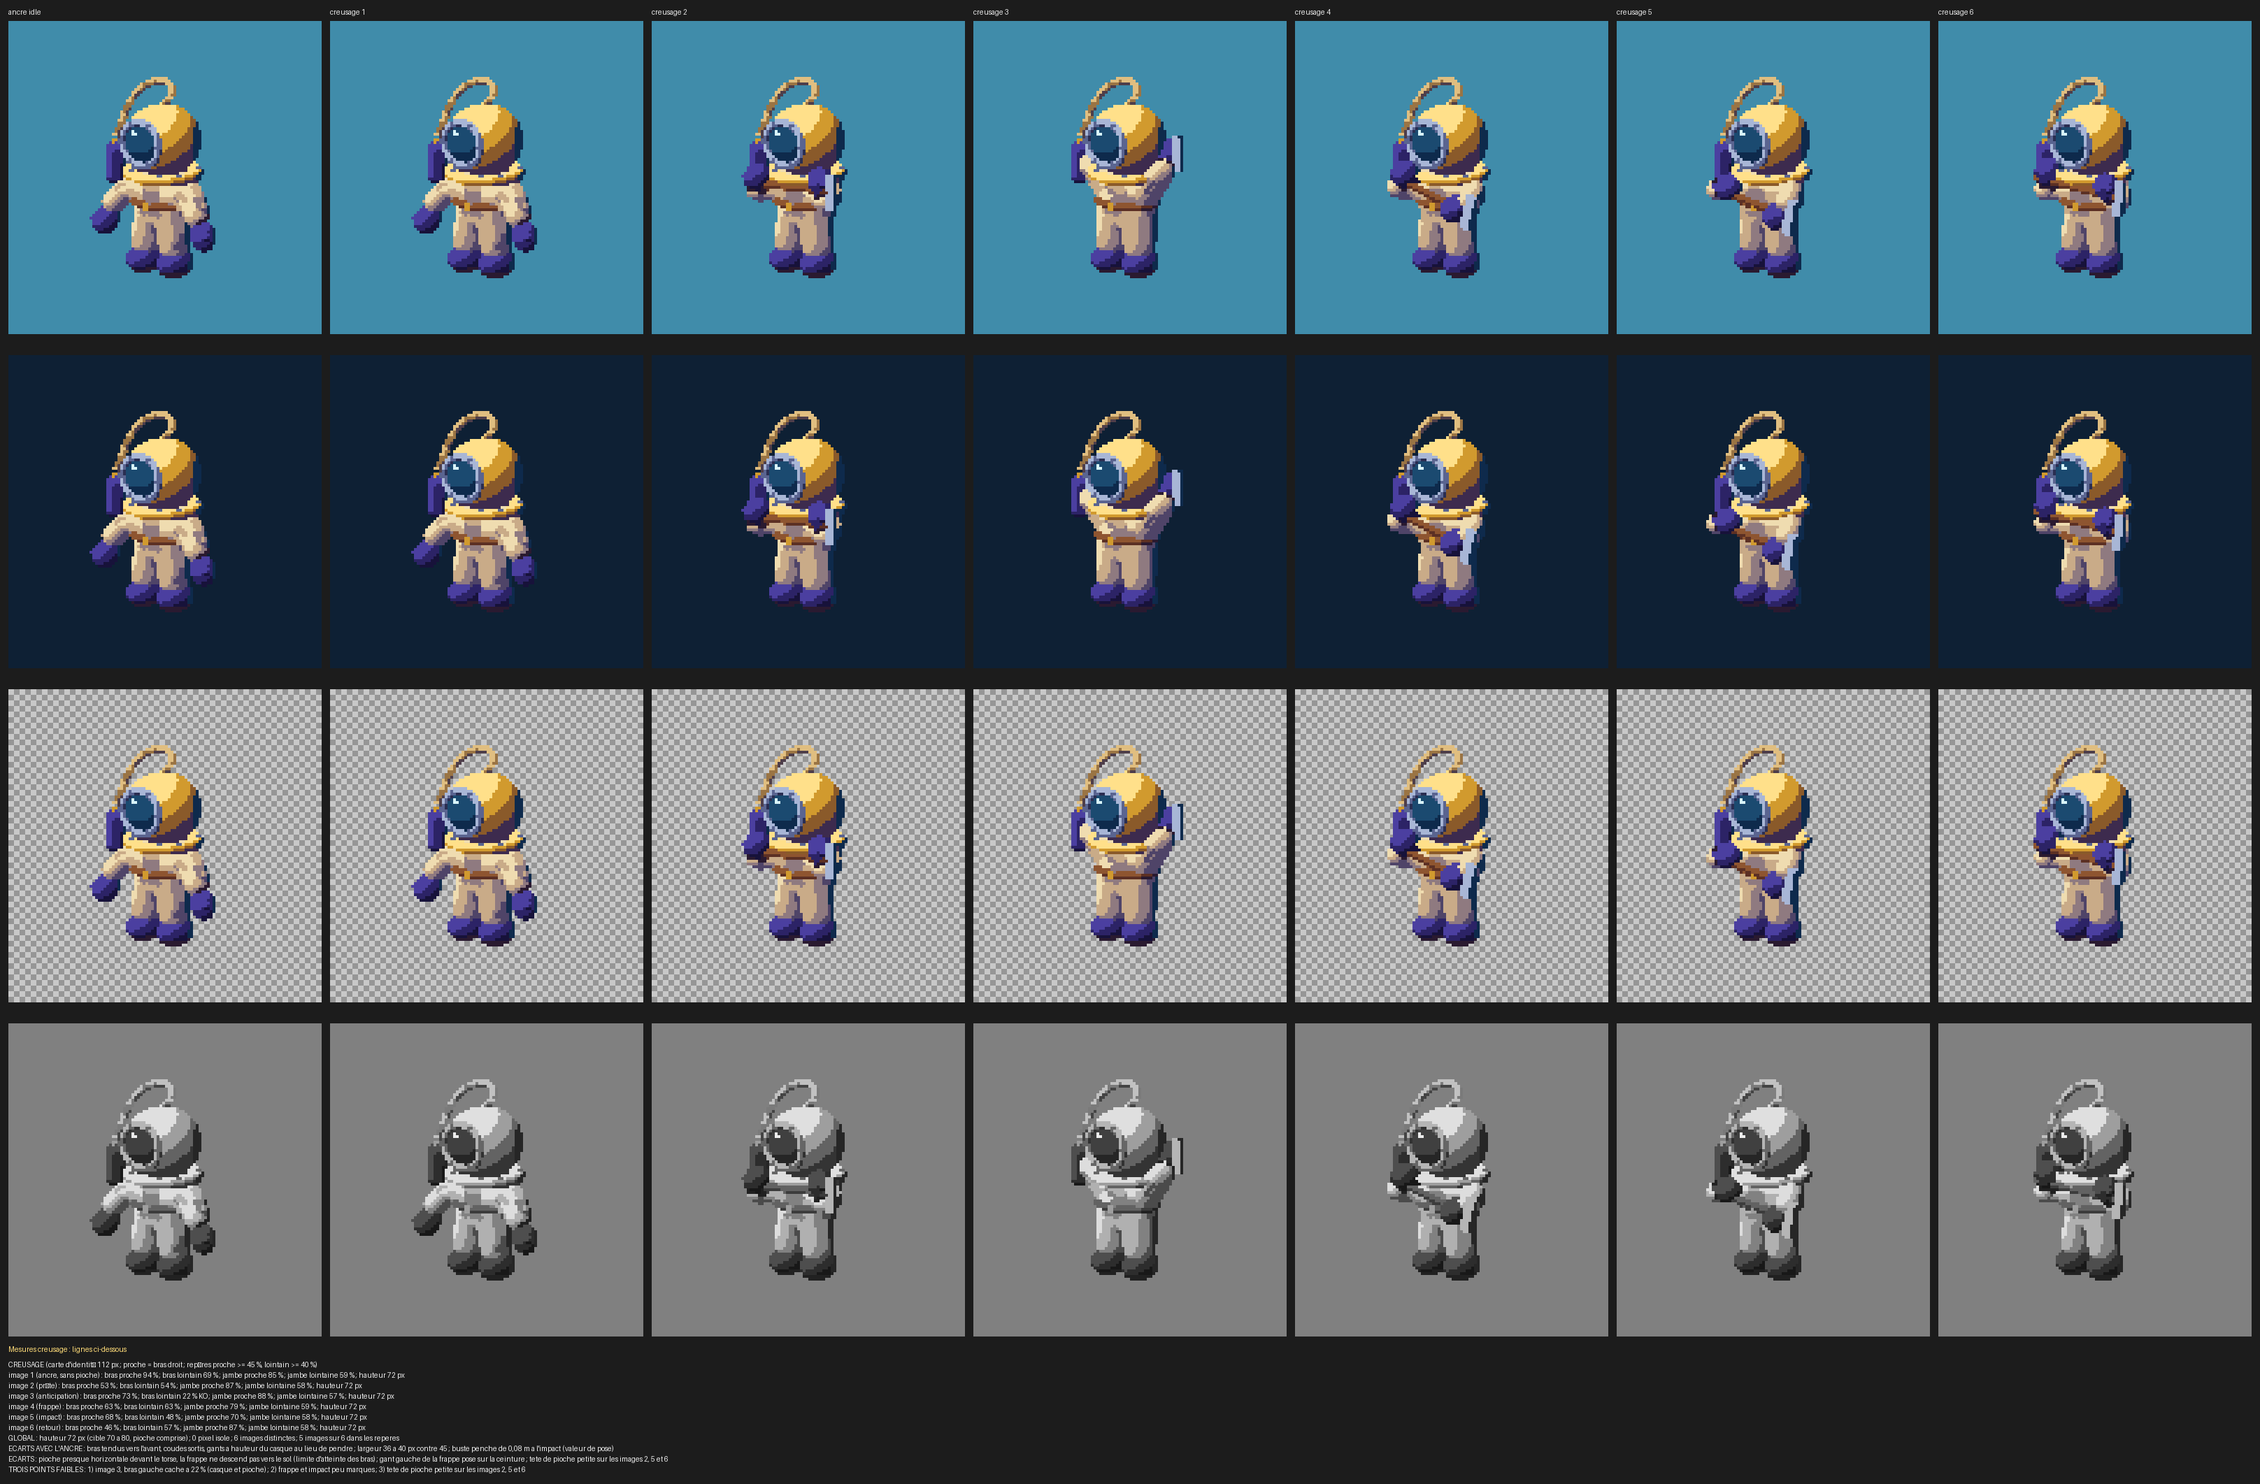
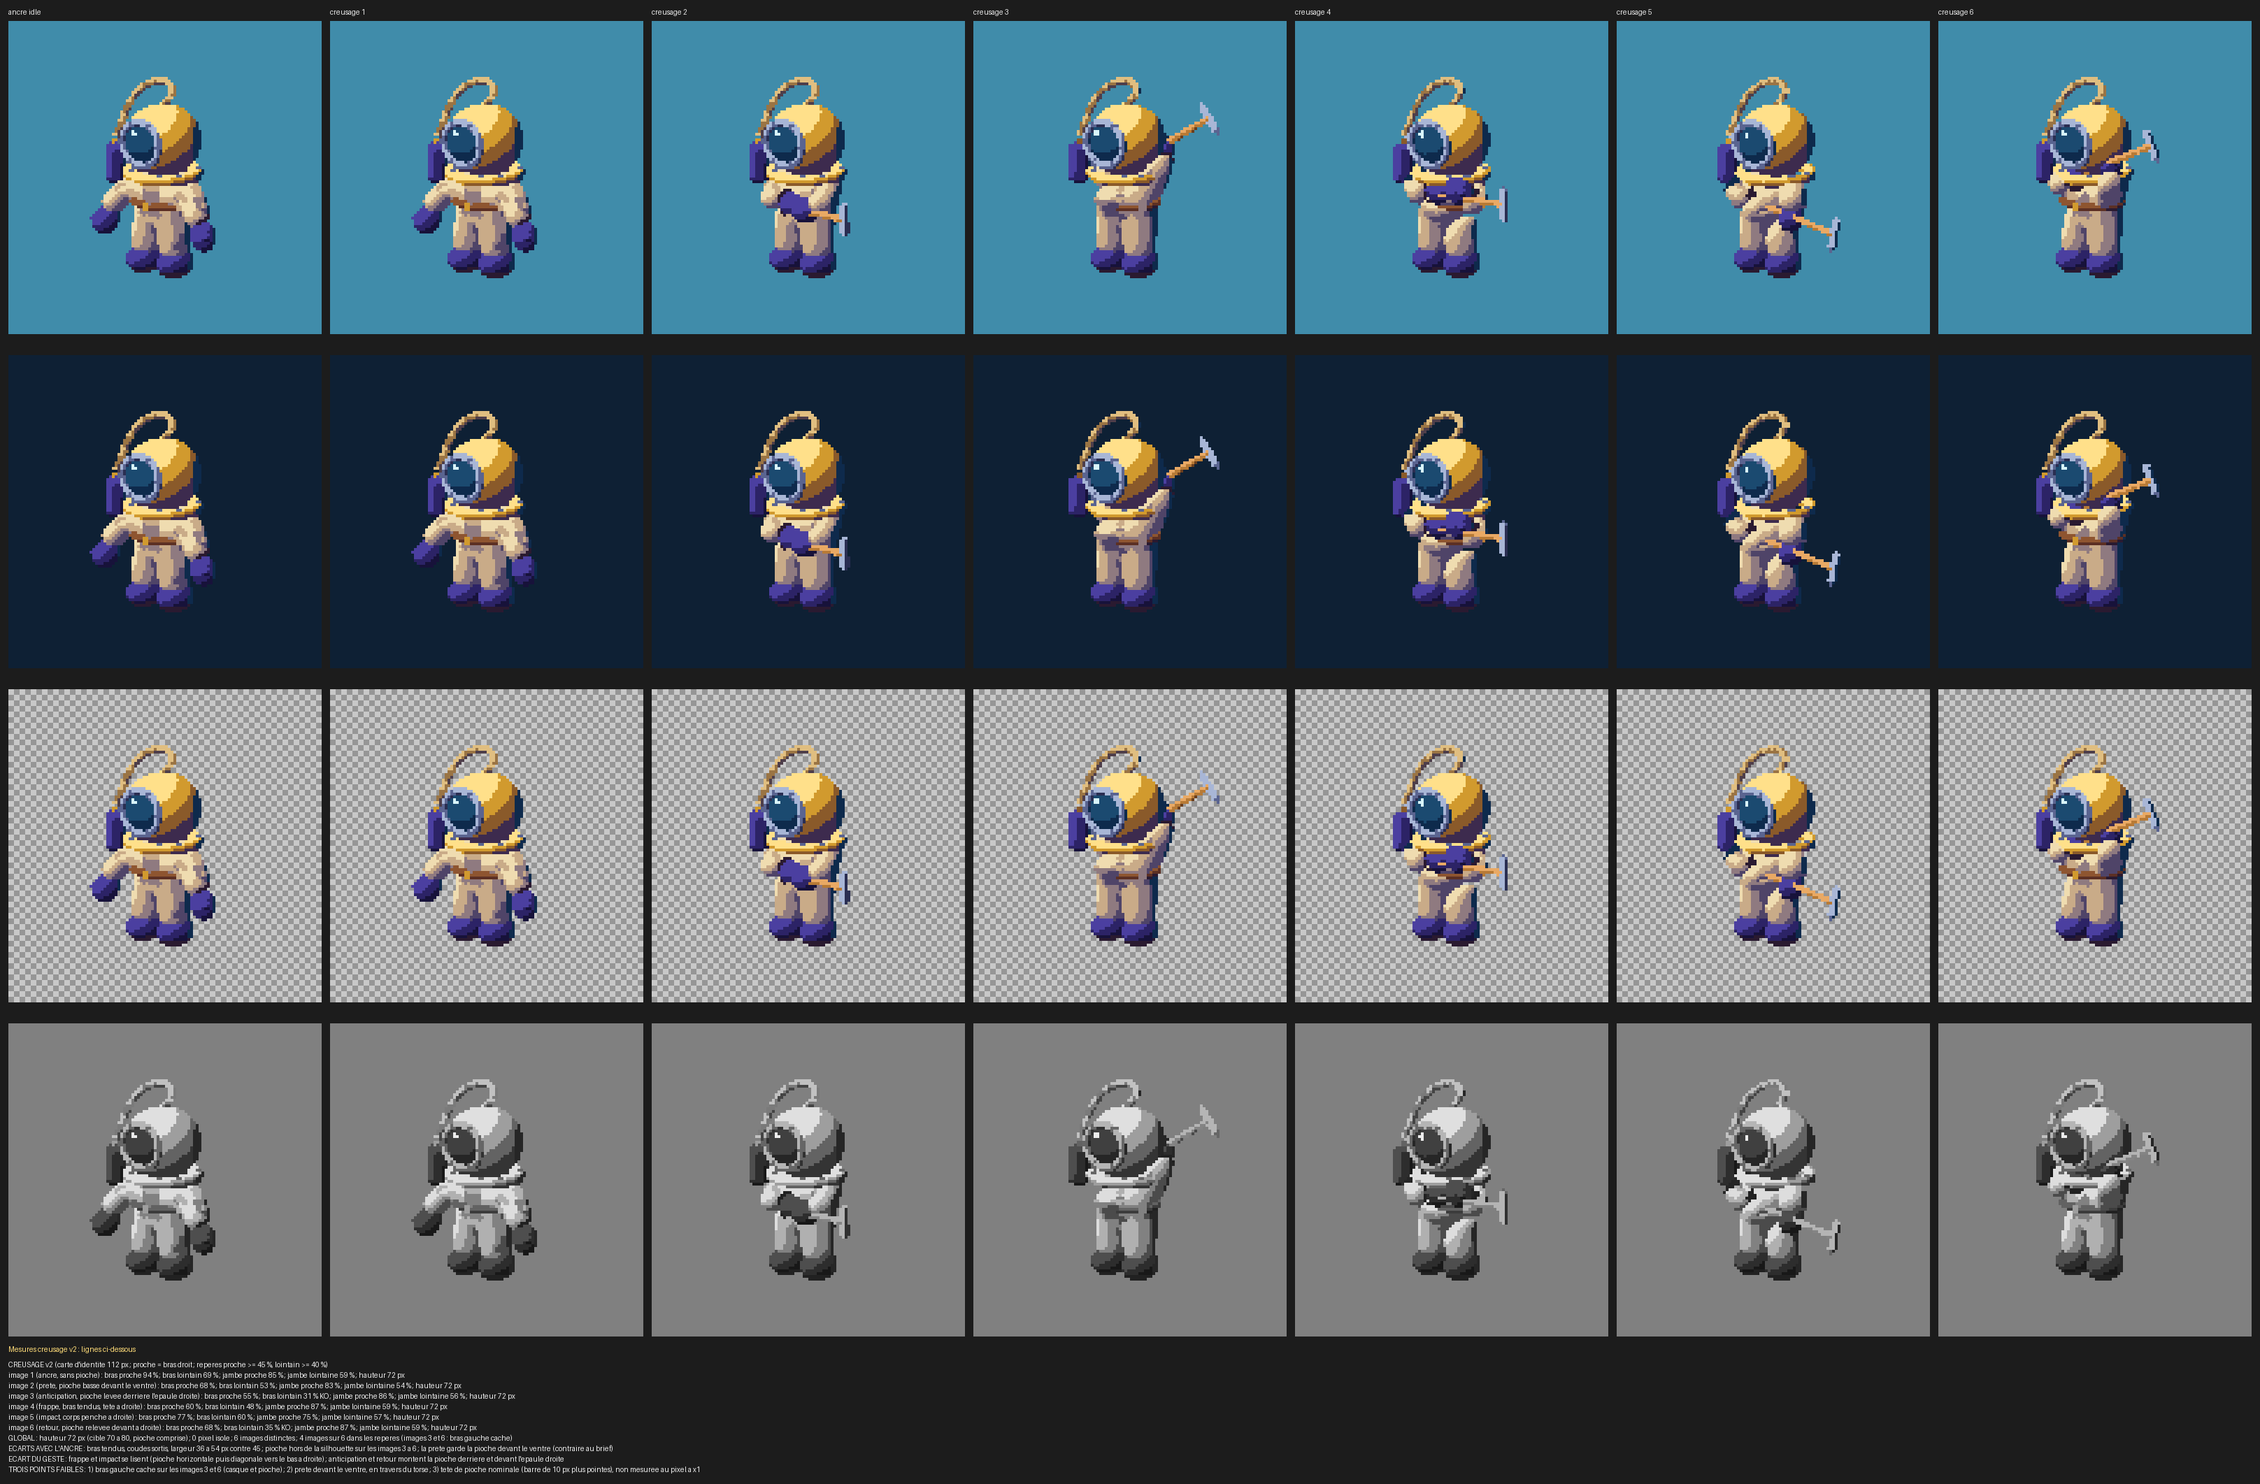
Creusage v2 : geste vers la droite, pioche sortie de la silhouette (arrêt pour validation)
Julien a rejeté le creusage v1 (pioche presque invisible, plongeur debout, gestes quasi identiques). Refait : même caméra, même style, idle et nage inchangés. Image 1 = ancre idle (rendu brut identique à la version validée après ajout de la famille bois). Anticipation : pioche levée derrière l'épaule droite ; frappe : bras tendus, tête à droite à mi-hauteur ; impact : corps penché à droite ; retour : pioche relevée devant à droite. Pioche : manche bois clair (famille bois ajoutée à la palette, 3 tons), tête acier à deux pointes, longueur nominale ~42 px. Hauteur 72 px, zéro pixel isolé, six images distinctes.

Repères : 4 images sur 6 ; images 3 et 6 sous le repère (bras gauche caché). Écarts : la prête tient la pioche devant le ventre ; tête de pioche non mesurée au pixel à x1. Planche planche_creusage.png et mesures_creusage.txt. Journal plongeur_v6 : entrée creusage v2. ETAT : phase creusage v2, arrêt pour validation.

Claude-Session: https://claude.ai/code/session_01MakRNt29dULcXZ9NF9S3dJ

diff --git a/art/source/blender/plongeur_v6.py b/art/source/blender/plongeur_v6.py
@@ -47,11 +47,12 @@ PALETTE = {
     "reflet": ["#d8f4fa"],
     "corde": ["#4e3e4a", "#9a7444", "#e0be80"],
     "contour": ["#120c28", "#3c3a7a"],
+    "bois": ["#6a3e1e", "#b77a36", "#e9a964"],
 }
 # matière -> famille de la palette
 MATIERES = {
     "laiton": "laiton", "toile": "beige", "cuir": "cuir", "caoutchouc": "violet", "bouteille": "violet",
-    "acier": "metal", "verre": "verre", "corde": "corde",
+    "acier": "metal", "verre": "verre", "corde": "corde", "bois": "bois",
 }
 # seuils des paliers sur m = (normale . lumière + 1) / 2 : 4 tons ou 3 tons
 SEUILS = {4: [0.0, 0.42, 0.62, 0.80], 3: [0.0, 0.45, 0.72]}
@@ -346,6 +347,7 @@ SQUELETTE = {
 POSE = {}              # surcharge des positions du squelette (nage) ; vide = pose idle validée
 GARDER_PLIS = False      # idle animé : garde les plis fixes de l'idle quand la pose change (petits décalages)
 HAUT_DZ = 0.0            # idle animé : buste, épaules et casque montent de HAUT_DZ (respiration), 0 = idle validée
+HAUT_DX = 0.0            # creusage : décalage vers la droite du haut du corps (buste penché)
 BULLE = None             # idle animé : (centre, rayon) d'une bulle qui sort du casque, None = pas de bulle
 VERSION_NAGE = 1         # 1 = nage r03 validée ; 2 = corrigée (corde qui flotte derrière, cycle asymétrique)
 ROTATION_CORDE = 0.0     # nage v2 : battement de la corde flottante (phase, en radians)
@@ -507,6 +509,35 @@ def boite_orientee(centre, axes, demi, mat, nom):
     return o
 
 
+def fer_pioche(centre, axes, mat, nom, demi_barre=0.20, epaisseur=0.05, pointe=0.08):
+    """Tête de pioche : une barre perpendiculaire au manche (axes = u, v, w), deux pointes aux extrémités.
+    La barre fait 2 x demi_barre (10 à 14 px à l'échelle), les pointes ajoutent `pointe` de chaque côté."""
+    u, v, w = axes
+    c = Vector(centre)
+    bm = bmesh.new()
+    s = []
+    for k in range(8):
+        sx = 1 if k & 1 else -1
+        sy = 1 if k & 2 else -1
+        sz = 1 if k & 4 else -1
+        s.append(bm.verts.new(c + u * sx * epaisseur + v * sy * epaisseur * 0.8 + w * sz * demi_barre))
+    pa = bm.verts.new(c + w * (demi_barre + pointe))
+    pb = bm.verts.new(c - w * (demi_barre + pointe))
+    for quad in ((0, 2, 6, 4), (1, 5, 7, 3), (0, 1, 5, 4), (2, 3, 7, 6)):
+        bm.faces.new([s[i] for i in quad])
+    for a, b in ((4, 5), (5, 7), (7, 6), (6, 4)):
+        bm.faces.new((s[a], s[b], pa))
+    for a, b in ((1, 0), (0, 2), (2, 3), (3, 1)):
+        bm.faces.new((s[a], s[b], pb))
+    bmesh.ops.recalc_face_normals(bm, faces=bm.faces[:])
+    me = bpy.data.meshes.new(nom)
+    bm.to_mesh(me)
+    bm.free()
+    o = bpy.data.objects.new(nom, me)
+    o.data.materials.append(mat)
+    return o
+
+
 def corde_torsadee(points, rayon, scene, mat, nom, cotes=16, nseg=14):  # cotes=6 : torsion lisible à 3 px
     """Corde en un seul tube le long d'un chemin lisse, torsion PEINTE : bandes en hélice par OMB."""
     pts = [Vector(p) for p in points]
@@ -657,26 +688,27 @@ def construire(scene):
         # nage v2 : la corde part de la valve et flotte derrière le dos, vers les pieds (côté opposé à la direction)
         ondule = 0.06 * math.sin(ROTATION_CORDE)
         chemin_corde += [(-0.98 + ondule, 0.36, 1.30), (-1.06 - ondule, 0.52, 0.80), (-1.10 + ondule, 0.58, 0.30)]
-    chemin_corde = [(x, y, z + HAUT_DZ) for x, y, z in chemin_corde]
+    chemin_corde = [(x + HAUT_DX, y, z + HAUT_DZ) for x, y, z in chemin_corde]
     tuyau = corde_torsadee(chemin_corde, 0.065, scene, m["corde"], "tuyau", cotes=6)
     objets["tuyau"] = tuyau
     # idle animé : la tête, le hublot, la collerette et la valve montent avec le buste (respiration)
     for nom in ("casque", "hublot_verre", "cadre_hublot", "collerette", "bouteille", "valve"):
+        objets[nom].location.x += HAUT_DX
         objets[nom].location.z += HAUT_DZ
     if BULLE is not None:
         centre, rayon = BULLE
-        objets["bulle"] = ellipsoide((centre[0], centre[1], centre[2] + HAUT_DZ), rayon, (1.0, 1.0, 1.0),
+        objets["bulle"] = ellipsoide((centre[0] + HAUT_DX, centre[1], centre[2] + HAUT_DZ), rayon, (1.0, 1.0, 1.0),
                                      m["acier"], "bulle", niveau=1)
 
-    # --- pioche (creusage) : manche en cuir tenu par les deux gants, tête en acier
+    # --- pioche (creusage) : manche clair tenu par les deux gants, tête en acier à deux pointes
     if PIOCHE is not None:
         R, L = Vector(PIOCHE[0]), Vector(PIOCHE[1])
         u = (R - L).normalized()
-        H = R + u * 0.14                     # tête : au bout du manche, au-delà de la main droite
-        objets["pioche_manche"] = tube_entre(L - u * 0.08, H, 0.055, m["cuir"], "pioche_manche")
+        H = R + u * PIOCHE_LONGUEUR[1]                       # tête au-delà de la main droite
+        objets["pioche_manche"] = tube_entre(L - u * PIOCHE_LONGUEUR[0], H, 0.05, m["bois"], "pioche_manche")
         w = u.cross(Vector((0.0, 1.0, 0.0))).normalized()
         v = u.cross(w).normalized()
-        objets["pioche_tete"] = boite_orientee(H, (u, v, w), (0.07, 0.05, 0.26), m["acier"], "pioche_tete")
+        objets["pioche_tete"] = fer_pioche(H, (u, v, w), m["acier"], "pioche_tete")
 
     # --- scène
     for o in objets.values():
@@ -853,16 +885,19 @@ def rendre_idle_images(dossier, n=6):
     GARDER_PLIS, HAUT_DZ, BULLE = False, 0.0, None
 
 
-# ------------------------------------------------------------------ creusage (six images, pioche dans les gants)
-# image k : CREUSAGE[k] = centres des gants droit (R) et gauche (L) sur le manche, et penche du buste
-# (négatif = vers la caméra). Image 1 = ancre idle sans pioche ; 2 prête ; 3 anticipation ; 4 frappe ;
-# 5 impact ; 6 retour (la pioche redescend vers le repos).
-CREUSAGE = {  # mains écartées hors de la silhouette (à côté du casque), hampe en travers devant le corps
-    1: {"R": (0.60, -0.45, 1.35), "L": (-0.62, -0.50, 1.30), "penche": 0.00},
-    2: {"R": (0.62, 0.15, 1.80), "L": (-0.60, 0.10, 1.72), "penche": 0.04},
-    3: {"R": (0.58, -0.55, 1.10), "L": (-0.50, -0.60, 1.40), "penche": -0.04},
-    4: {"R": (0.60, -0.60, 1.04), "L": (-0.45, -0.65, 1.25), "penche": -0.08},
-    5: {"R": (0.60, -0.40, 1.25), "L": (-0.60, -0.45, 1.35), "penche": 0.00},
+# ------------------------------------------------------------------ creusage (six images, le plongeur creuse vers la droite)
+# Le plongeur creuse vers la DROITE (+X), comme dans le jeu. CREUSAGE[k] : L = main gauche (près du bas du manche),
+# R = main droite (plus haut sur le manche), dx = décalage vers la droite du haut du corps (buste penché), penche = vers l'avant.
+# Image 1 = ancre idle sans pioche. 2 prête (pioche basse à droite), 3 anticipation (levée derrière l'épaule droite,
+# au-dessus du casque), 4 frappe (bras tendus, tête à droite à mi-hauteur), 5 impact (corps penché à droite, pioche au
+# bout du bras), 6 retour (la pioche revient en arrière).
+PIOCHE_LONGUEUR = (0.45, 0.75)   # m : manche derrière la main gauche, tête au-delà de la main droite (40 à 50 px)
+CREUSAGE = {
+    1: {"L": (-0.05, -0.40, 1.00), "R": (0.40, -0.50, 1.02), "dx": 0.00, "penche": 0.00},
+    2: {"L": (-0.05, -0.05, 1.50), "R": (0.42, 0.30, 1.85), "dx": -0.02, "penche": 0.04},
+    3: {"L": (0.05, -0.45, 1.22), "R": (0.60, -0.50, 1.25), "dx": 0.03, "penche": -0.03},
+    4: {"L": (0.10, -0.45, 1.10), "R": (0.68, -0.45, 0.98), "dx": 0.08, "penche": -0.08},
+    5: {"L": (-0.05, -0.35, 1.45), "R": (0.45, -0.25, 1.70), "dx": 0.00, "penche": 0.00},
 }
 
 
@@ -883,23 +918,23 @@ def bras_vers(S, cible, pole):
 
 
 def pose_creusage(k):
-    """Image k du creusage (k = 0 : l'ancre idle, sans pioche). Les mains tiennent la hampe ; la pioche
-    est construite dans construire() à partir de PIOCHE."""
-    global PIOCHE
+    """Image k du creusage (k = 0 : l'ancre idle, sans pioche). Les mains tiennent le manche ; le haut du corps
+    se décale de dx (buste penché à droite) et entraîne la tête, le hublot et la corde (HAUT_DX)."""
+    global PIOCHE, HAUT_DX
     if k == 0:
-        PIOCHE = None
+        PIOCHE, HAUT_DX = None, 0.0
         return {}
     c = CREUSAGE[k]
-    PIOCHE = (tuple(c["R"]), tuple(c["L"]))
-    p = c["penche"]
+    PIOCHE = (c["R"], c["L"])
+    dx, p = c["dx"], c["penche"]
+    HAUT_DX = dx
     pose = {}
     for nom in ("poitrine", "cou", "epaule_g", "epaule_d"):
         x, y, z = SQUELETTE[nom][0]
-        pose[nom] = (x, y + p, z)
-    pose["taille"] = (0.0, 0.5 * p, 1.06)
+        pose[nom] = (x + dx, y + p, z)
+    pose["taille"] = (dx * 0.5, 0.5 * p, 1.06)
     for cote, cle, pole in (("d", "R", (0.5, -0.8, -0.2)), ("g", "L", (-0.5, -0.8, -0.2))):
-        S = Vector(SQUELETTE["epaule_" + cote][0]) + Vector((0.0, p, 0.0))
-        coude, poignet = bras_vers(S, c[cle], pole)
+        coude, poignet = bras_vers(Vector(pose["epaule_" + cote]), c[cle], pole)
         pose["coude_" + cote] = tuple(coude)
         pose["poignet_" + cote] = tuple(poignet)
     return pose
@@ -907,7 +942,7 @@ def pose_creusage(k):
 
 def rendre_creusage_images(dossier, n=6, identite=False, rapide=False):
     """Rend les six images du creusage (couleur, ou carte d'identité de chaque image) dans dossier."""
-    global PIOCHE, SORTIE
+    global PIOCHE, HAUT_DX, SORTIE
     os.makedirs(dossier, exist_ok=True)
     for k in range(n):
         POSE.clear()
@@ -926,7 +961,7 @@ def rendre_creusage_images(dossier, n=6, identite=False, rapide=False):
         else:
             rendre_fichier(scene, os.path.join(dossier, "creusage_%02d.png" % (k + 1)))
     POSE.clear()
-    PIOCHE = None
+    PIOCHE, HAUT_DX = None, 0.0
 
 
 # ------------------------------------------------------------------ cartes d'identité
@@ -935,7 +970,7 @@ GROUPE_COULEUR ={"tete": "#ffd400", "collerette": "#40ffb0", "tronc": "#ff0000",
                   "gant_d": "#00a070", "jambe_g": "#0000ff", "jambe_d": "#000090", "botte_g": "#ff0080",
                   "botte_d": "#ff80c0", "pioche": "#ff00ff"}
 MATIERE_COULEUR = {"laiton": "#ffd400", "acier": "#00b4ff", "verre": "#ff2bd6", "toile": "#00ff80",
-                   "cuir": "#ff6a00", "caoutchouc": "#3a00ff", "corde": "#f0f0f0", "bouteille": "#9400ff"}
+                   "cuir": "#ff6a00", "caoutchouc": "#3a00ff", "corde": "#f0f0f0", "bouteille": "#9400ff", "bois": "#ff8000"}
 
 
 def _base(o):
@@ -982,7 +1017,7 @@ def matiere_objet(o):
     if b == "bouteille":
         return "bouteille"
     if b == "pioche_manche":
-        return "cuir"
+        return "bois"
     if b == "pioche_tete":
         return "acier"
     return None

diff --git a/ETAT.md b/ETAT.md
@@ -1,6 +1,20 @@
 # ETAT.md — Où en est le projet (tenu à jour par l'agent à chaque étape importante)
 
-## Phase courante : LOT 2 CREUSAGE (six images) — ARRÊT POUR VALIDATION DE JULIEN
+## Phase courante : LOT 2 CREUSAGE v2 — ARRÊT POUR VALIDATION DE JULIEN
+Julien a rejeté le creusage v1 (pioche presque invisible, plongeur debout, anticipation, frappe et impact quasi identiques). Refait en v2 : même caméra, même style, idle et nage inchangés.
+
+- Geste vers la DROITE : pioche levée derrière l'épaule droite (image 3), horizontale à mi-hauteur (4), diagonale vers le bas à droite (5), relevée devant à droite (6). Image 2 (prête) : pioche basse devant le ventre (écart).
+- Pioche : manche bois clair (famille « bois » ajoutée à la palette, 3 tons), tête acier à deux pointes ; longueur nominale 1,7 unité, soit ~42 px (partiellement cachée par le corps sur certaines images). Hauteur du sprite 72 px.
+- Repères (proche 45 %, lointain 40 %) : 4 images sur 6 ; images 3 (bras gauche 31 %) et 6 (35 %) sous le repère.
+- Non-régression : image 1 brute de l'idle identique à la version validée (après ajout de la famille bois).
+- Trois points faibles : 1) bras gauche caché sur les images 3 et 6 ; 2) prête devant le ventre ; 3) tête de pioche nominale, non mesurée au pixel à x1.
+- Planche : `art/pixel/plongeur_v6/creusage/planche_creusage.png` ; mesures : `mesures_creusage.txt`.
+- Code : `art/source/blender/plongeur_v6.py` : `CREUSAGE`, `PIOCHE_LONGUEUR`, `pose_creusage` (dx = haut du corps décalé à droite, `HAUT_DX`), `fer_pioche`, `tube_entre`, palette `bois`.
+
+Lots restants, un par un, arrêt après chacun : attaque (6 images), saut (4), dégâts (3) et mort (8). Puis feuille, manifeste, jeu, tuiles 24 px, robot, `gate.py M3` dans un clone neuf.
+Blocage : aucun.
+
+## Ancienne phase : LOT 2 CREUSAGE v1 (rejeté par Julien)
 Julien a validé l'idle animé (c91fb54). Référence de nage : `art/pixel/plongeur_v6/nage_v2/` ; la v1 reste intacte dans `art/pixel/plongeur_v6/nage/` (archive).
 
 Retouche idle (demandée, faite) : bulle de 3 à 4 px (cible 4 à 5 : atteinte au bas de la plage), montée sur les images 2 à 6 puis dissoute ; image 1 = ancre inchangée. Planche v1 de l'idle dans l'historique (`c91fb54`).
